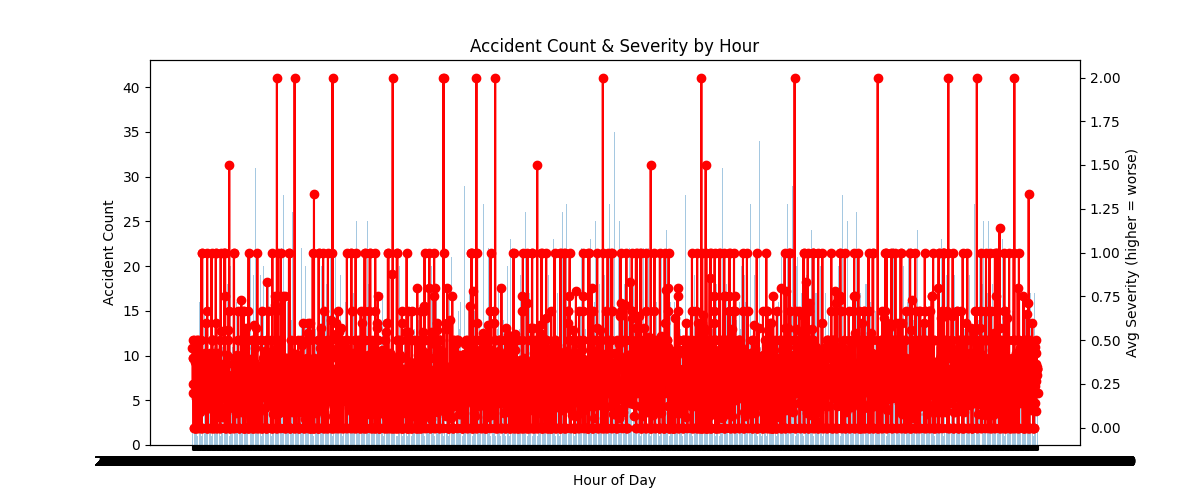
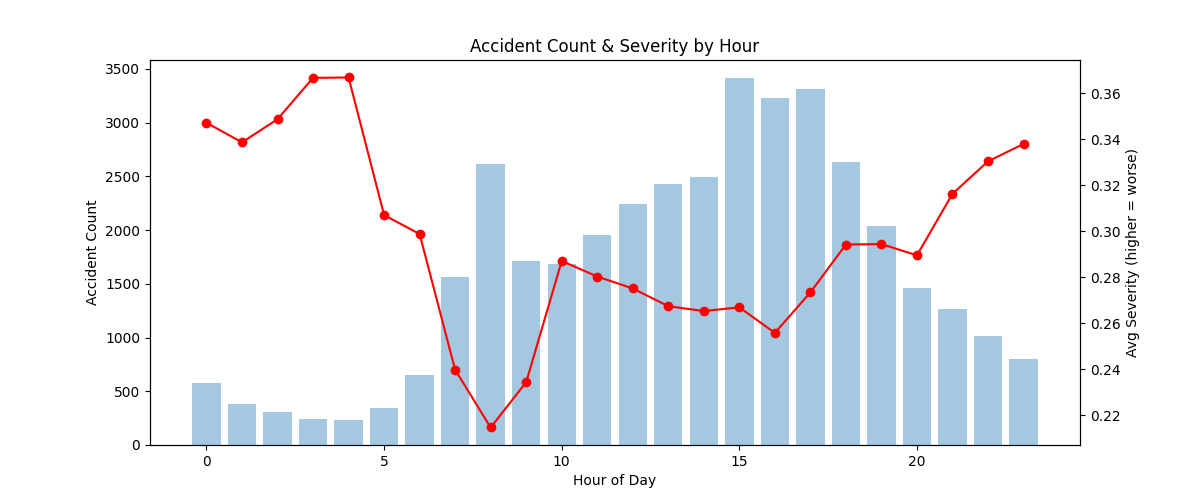
Added 5 functions for 5 plots of the notebook

diff --git a/src/visualization/visualize.py b/src/visualization/visualize.py
@@ -39,7 +39,9 @@ def accidents_count_and_severity_per_hour (
         df : pd.DataFrame,
         save_path:str
 ):
-    hourly = df.groupby('accident_hour')['collision_severity'].agg(['mean','count'])
+    df['hour'] = pd.to_datetime(df['time'].astype(str), format='%H:%M:%S',
+                             errors='coerce').dt.hour
+    hourly = df.groupby('hour')['collision_severity'].agg(['mean','count'])
     fig, ax1 = plt.subplots(figsize=(12, 5))
     ax1.bar(hourly.index, hourly['count'], alpha=0.4, label='Count')
     ax2 = ax1.twinx()
@@ -69,13 +71,38 @@ def rain_vs_collision_severity(
     plt.savefig(save_path)
 
 
+def avg_collision_severity_by_road_type(
+        df:pd.DataFrame,
+        save_path:str
+):
+    plt.figure(figsize=(10,6))
+
+    sns.barplot(
+        x='road_type',
+        y='collision_severity',
+        data=df,
+        estimator='mean'
+    )
+
+    plt.xticks(
+        ticks=range(len(df['road_type'].unique())),
+        labels=["Roundabout", "One Way Street", "Dual Carriage Way", "Single Carriage Way", "Slip Road","Unknown"],
+        rotation=15
+    )
+    plt.title('Average Collision Severity by Road Type')
+    plt.xlabel('Road Type')
+    plt.ylabel('Avg Severity')
+    plt.savefig(save_path)
+    
+
+
 def main_visualize():
-    df  = pd.read_csv(rf"{cfg.PROCESSED_DATA_DIR}\train.csv")
-    df[cfg.TARGET_COL]=3-df[cfg.TARGET_COL]
-    get_pie_chart_for_collision_severity(df,rf"{cfg.FIGURES_DIR}\collision_severity_pie_chart.png")
-    geographic_distribution_accidents(df,rf'{cfg.FIGURES_DIR}\geo_distribution.png')
-    # accidents_count_and_severity_per_hour(df,rf'{cfg.FIGURES_DIR}\hourly.png')
-    rain_vs_collision_severity(df,rf'{cfg.FIGURES_DIR}\rain_vs_severity.png')
+    df  = pd.read_csv(rf"{cfg.INTERIM_DATA_DIR}\{cfg.CLEANED_TRAIN_OUTPUT_FILE}")
+    get_pie_chart_for_collision_severity(df,rf"{cfg.FIGURES_DIR}\{cfg.PIE_CHART_FOR_SEVERITY}")
+    geographic_distribution_accidents(df,rf'{cfg.FIGURES_DIR}\{cfg.GEO_DISTRIBUTION}')
+    accidents_count_and_severity_per_hour(df,rf'{cfg.FIGURES_DIR}\{cfg.HOURLY_ACCIDENTS}')
+    rain_vs_collision_severity(df,rf'{cfg.FIGURES_DIR}\{cfg.RAIN_VS_SEVERITY}')
+    avg_collision_severity_by_road_type(df,rf'{cfg.FIGURES_DIR}\{cfg.AVG_COLLISION_VS_ROAD_TYPE}')
     
 
 if __name__ == "__main__":

diff --git a/src/features/build_features.py b/src/features/build_features.py
@@ -65,7 +65,7 @@ def feature_interactions(
         (new_df['wx_rain'] > 0) |
         (new_df['wx_wind_speed_10m'] > 20) |
         (new_df['wx_wind_gusts_10m'] > 20)
-    ).astype(int)
+    )
         new_categorical_cols=new_categorical_cols+["is_bad_weather"]
         return new_df , new_numerical_cols ,  new_categorical_cols
     except Exception as e:
@@ -188,7 +188,7 @@ def correlation_based_selection (
                 else:
                     to_drop.add(col)
     X_reduced = X.drop(columns=list(to_drop))
-
+    print(to_drop)
     kept_cols = [col for col in numerical_cols if col not in to_drop]
     return X_reduced, kept_cols, list(to_drop)
 
@@ -317,7 +317,7 @@ def main_features():
     val_final.to_csv(val_path, index=False)
 
     summarize(X_train,X_train_corr,rf"{cfg.REPORTS_DIR}/features_summary.csv")
-
+    print(X_train_corr.columns)
 ###########################################
 if __name__ == "__main__":
     main_features()

diff --git a/src/config.py b/src/config.py
@@ -132,7 +132,12 @@ COLS_NULL_PREC = 0.40
 VARIANCE_THRESHOLD = 0.01
 CORRELATION_THRESHOLD = 0.9
 
-
+# Figures
+PIE_CHART_FOR_SEVERITY = "collision_severity_pie_chart.png"
+GEO_DISTRIBUTION = "geo_distribution.png"
+HOURLY_ACCIDENTS="hourly.png"
+RAIN_VS_SEVERITY="rain_vs_severity.png"
+AVG_COLLISION_VS_ROAD_TYPE="avg_collision_vs_road_type.png"
 # UNDERSAMPLE_STRATEGY = {1: 17_810, 2: 5_962, 3: 556}
  
 # MLFLOW_EXPERIMENT_NAME = os.getenv("MLFLOW_EXPERIMENT_NAME", "collision_severity")
